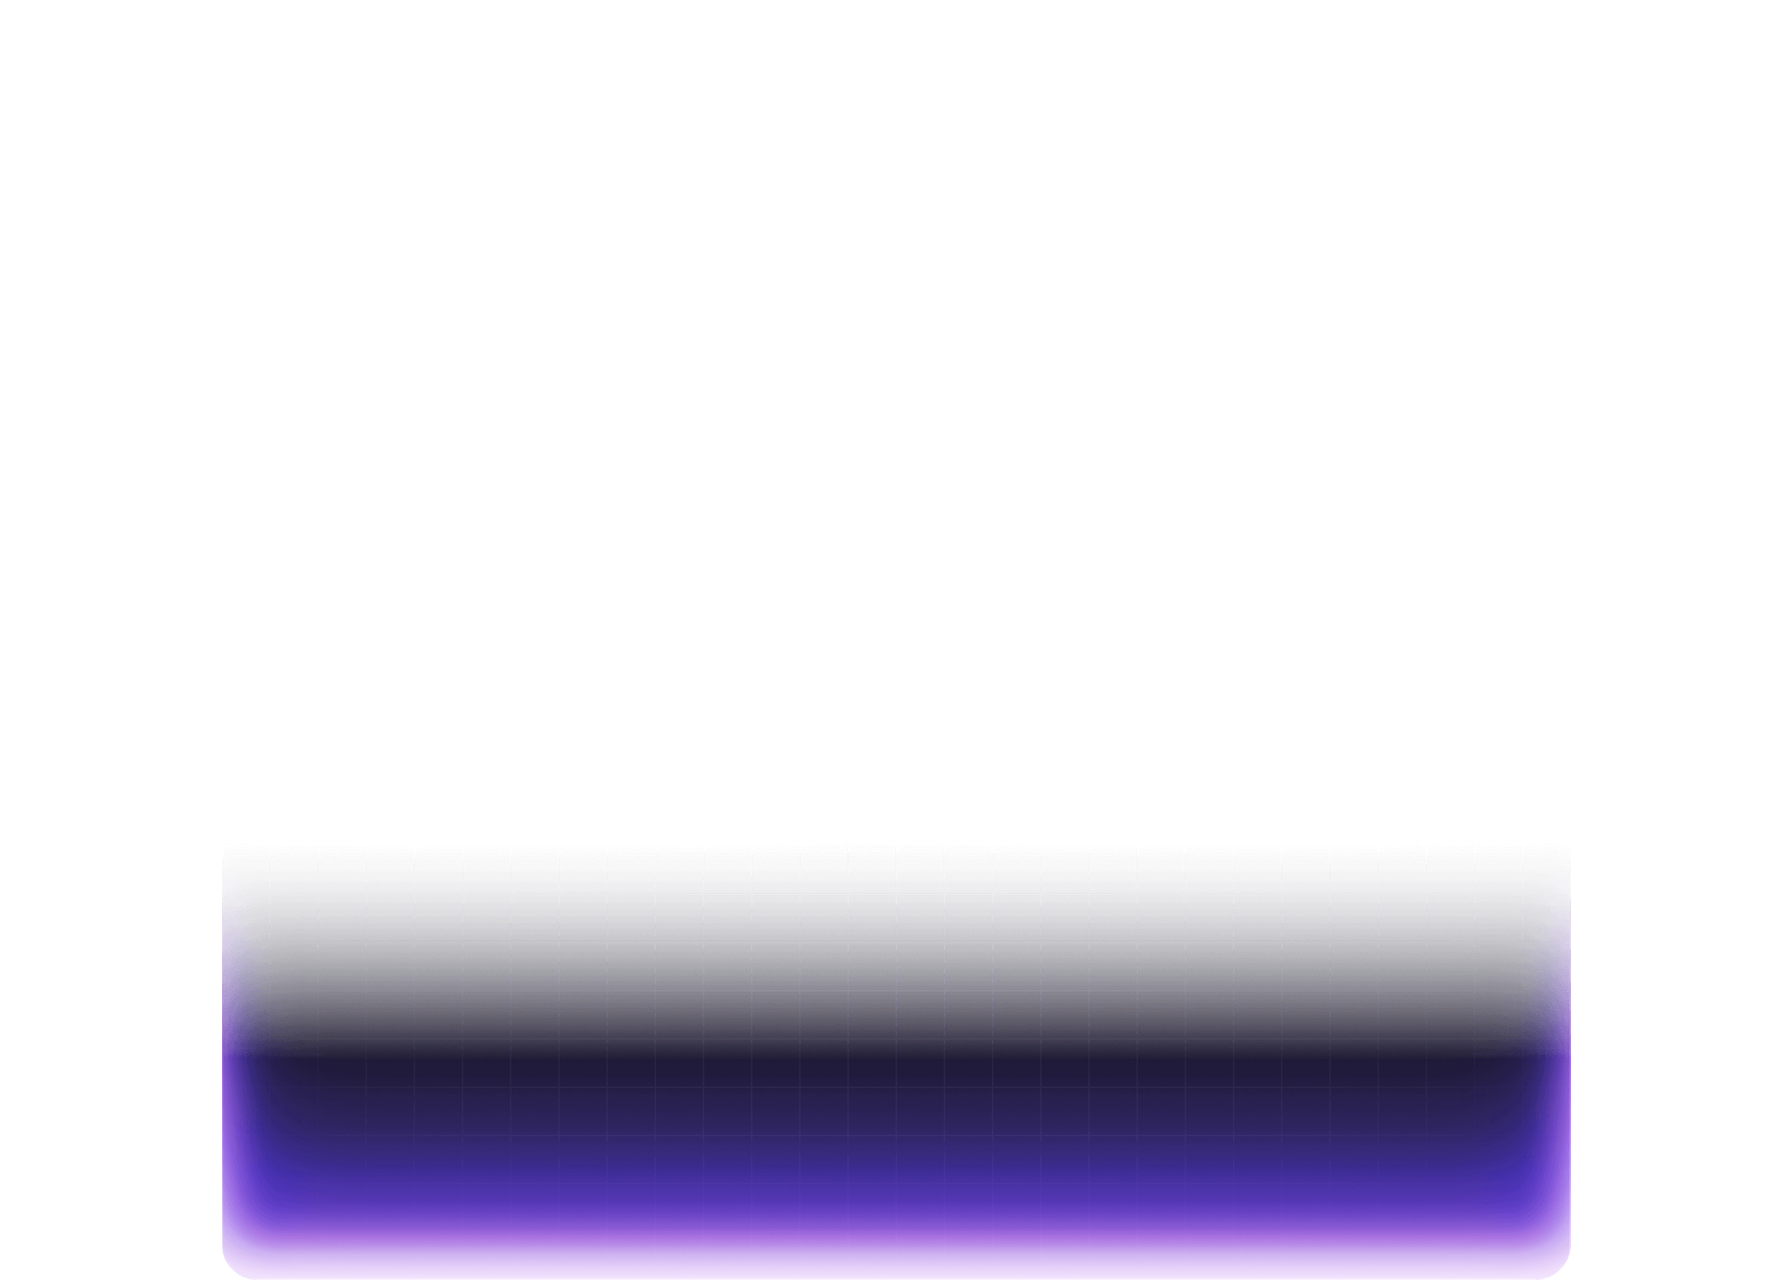
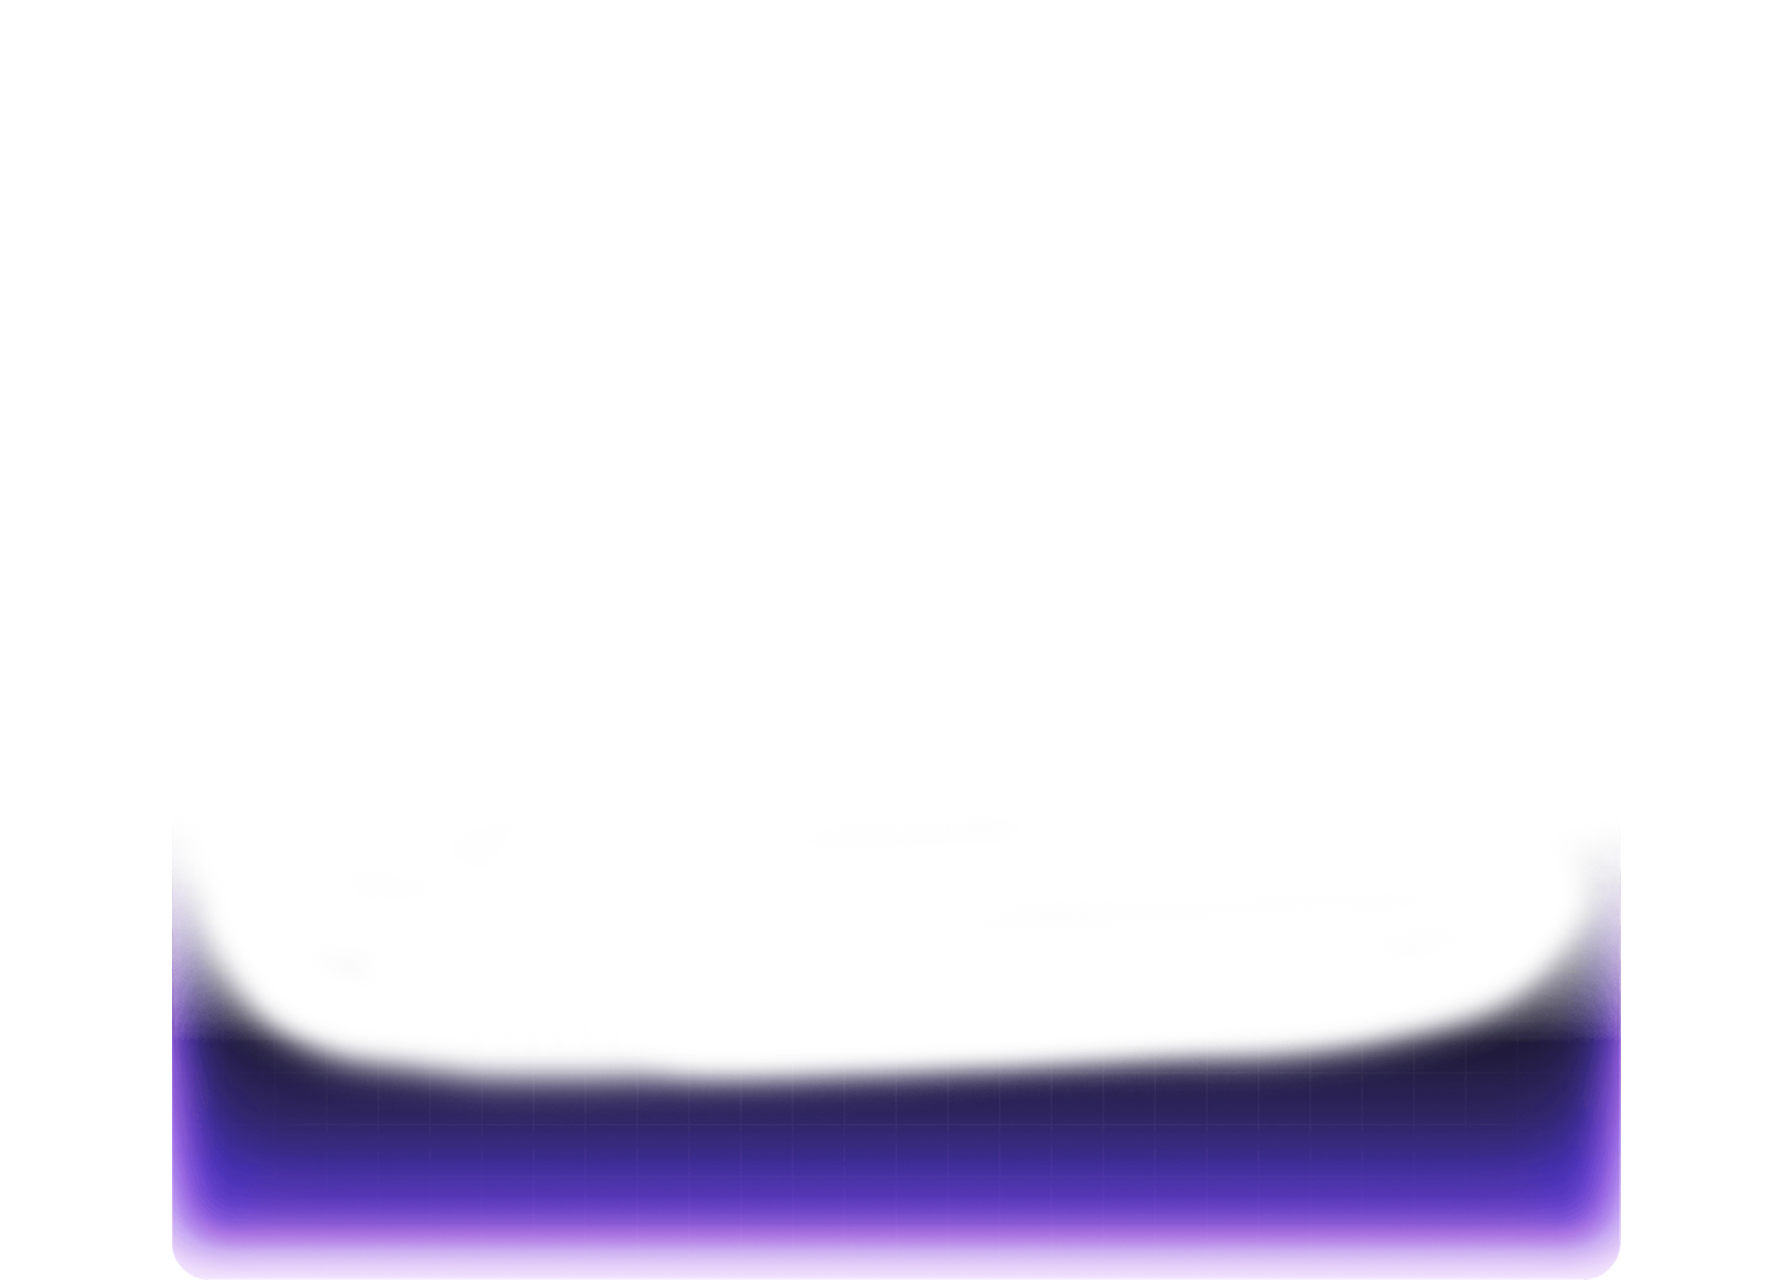
style: menambahkan bg baru

Changed region(s): [[0.0938, 0.6875, 0.9062, 1.0]]

diff --git a/tailwind.config.js b/tailwind.config.js
@@ -30,6 +30,7 @@ export default {
                 squaredBg: "url('/public/images/squared-bg-element-3.png')",
                 glowCenter: "url('/public/images/glowCenter.png')",
                 glowRect: "url('/public/images/glowRect3.png')",
+                glowRectBig: "url('/public/images/glowRect2.png')",
                 balls: "url('/public/images/balls-2.png')",
                 rect: "url('/public/images/rect.png')",
             },

diff --git a/resources/views/index.blade.php b/resources/views/index.blade.php
@@ -31,7 +31,7 @@
     <!-- ========== END HERO ========== -->
     
     <!-- ========== PARTNERS ========== -->
-    <div class="relative overflow-hidden  lg:py-6 bg-oldNavy ">
+<div class="relative overflow-hidden  lg:py-6 bg-oldNavy ">
   <div class="relative z-10 ">
     <div class="max-w-5xl px-4 xl:px-0 mx-auto">
 
@@ -232,6 +232,7 @@
     <!-- ========== END JURUSAN ========== -->
 
     <!-- ========== WHY US ========== -->
+  <div class="relative overflow-hidden before:absolute before:-top-5 lg:before:top-0 before:start-1/2 before:bg-glowRectBig before:bg-no-repeat before:bg-bottom before:size-full before:-z-[1] before:transform before:-translate-x-1/2 px-10" id="jurusan">
     <div class="mx-auto max-w-7xl py-24 px-4 sm:px-6 lg:px-8" id="whyus">
         <div class="mb-10 lg:mb-16 flex justify-center items-center flex-col gap-x-0 gap-y-6 lg:flex-col lg:gap-y-6 max-md:max-w-lg max-md:mx-auto">
             <div class="relative w-full text-center lg:text-left lg:w-full">
@@ -243,8 +244,8 @@
         </div>
         <div class="flex justify-center items-center gap-x-5 gap-y-8 lg:gap-y-0 flex-wrap md:flex-wrap lg:flex-nowrap lg:flex-row lg:justify-between lg:gap-x-8">
             <!-- Kurikulum Up-To-Date -->
-            <div class="group relative w-full border border-purple-600 rounded-2xl p-4 transition-all duration-500 max-md:max-w-md max-md:mx-auto md:w-2/5 md:h-64 xl:p-7 xl:w-1/4 hover:bg-purple-600">
-                <div class="border border-purple-600 rounded-full flex justify-center items-center mb-5 w-14 h-14 group-hover:bg-white">
+            <div class="group relative w-full rounded-2xl p-4 transition-all duration-500 max-md:max-w-md max-md:mx-auto md:w-2/5 md:h-64 xl:p-7 xl:w-1/4 hover:bg-purple-600">
+                <div class="rounded-full flex justify-center items-center mb-5 w-14 h-14 group-hover:bg-white">
                     <svg class="flex-shrink-0 size-6 text-purple-600" xmlns="http://www.w3.org/2000/svg" viewBox="0 0 24 24" width="48" height="48" fill="currentColor">
                         <path d="M12 4C14.7486 4 17.1749 5.38626 18.6156 7.5H16V9.5H22V3.5H20V5.99936C18.1762 3.57166 15.2724 2 12 2C6.47715 2 2 6.47715 2 12H4C4 7.58172 7.58172 4 12 4ZM20 12C20 16.4183 16.4183 20 12 20C9.25144 20 6.82508 18.6137 5.38443 16.5H8V14.5H2V20.5H4V18.0006C5.82381 20.4283 8.72764 22 12 22C17.5228 22 22 17.5228 22 12H20Z"></path>
                     </svg>
@@ -253,8 +254,8 @@
                 <p class="text-sm font-normal text-gray-500 transition-all duration-500 leading-5 group-hover:text-white">Mata kuliah kami selalu mengikuti perkembangan industri, memastikan keterampilan lulusan tetap relevan.</p>
             </div>
             <!-- Dosen Berpengalaman -->
-            <div class="group relative w-full border border-purple-600 rounded-2xl p-4 transition-all duration-500 max-md:max-w-md max-md:mx-auto md:w-2/5 md:h-64 xl:p-7 xl:w-1/4 hover:bg-purple-600">
-                <div class="border border-purple-600 rounded-full flex justify-center items-center mb-5 w-14 h-14 group-hover:bg-white">
+            <div class="group relative w-full rounded-2xl p-4 transition-all duration-500 max-md:max-w-md max-md:mx-auto md:w-2/5 md:h-64 xl:p-7 xl:w-1/4 hover:bg-purple-600">
+                <div class="rounded-full flex justify-center items-center mb-5 w-14 h-14 group-hover:bg-white">
                     <svg class="flex-shrink-0 size-6 text-purple-600" xmlns="http://www.w3.org/2000/svg" viewBox="0 0 24 24" width="48" height="48" fill="currentColor">
                         <path d="M17 13C19.2091 13 21 14.7909 21 17C21 19.2091 19.2091 21 17 21C14.7909 21 13 19.2091 13 17H11C11 19.2091 9.20914 21 7 21C4.79086 21 3 19.2091 3 17C3 14.7909 4.79086 13 7 13C8.48052 13 9.77317 13.8043 10.4648 14.9999H13.5352C14.2268 13.8043 15.5195 13 17 13ZM7 15C5.89543 15 5 15.8954 5 17C5 18.1046 5.89543 19 7 19C8.10457 19 9 18.1046 9 17C9 15.8954 8.10457 15 7 15ZM17 15C15.8954 15 15 15.8954 15 17C15 18.1046 15.8954 19 17 19C18.1046 19 19 18.1046 19 17C19 15.8954 18.1046 15 17 15ZM16 3C18.2091 3 20 4.79086 20 7V10H22V12H2V10H4V7C4 4.79086 5.79086 3 8 3H16ZM16 5H8C6.94564 5 6 5.95 6 7V10H18V7C18 5.94564 17.05 5 16 5Z"></path>
                     </svg>
@@ -263,8 +264,8 @@
                 <p class="text-sm font-normal text-gray-500 transition-all duration-500 leading-5 group-hover:text-white">Pengajaran oleh dosen ahli berpengalaman, memberikan bimbingan berkualitas tinggi dan wawasan praktis.</p>
             </div>
                 <!-- Fasilitas Canggih -->
-                <div class="group relative w-full border border-purple-600 rounded-2xl p-4 transition-all duration-500 max-md:max-w-md max-md:mx-auto md:w-2/5 md:h-64 xl:p-7 xl:w-1/4 hover:bg-purple-600">
-                <div class="border border-purple-600 rounded-full flex justify-center items-center mb-5 w-14 h-14 group-hover:bg-white">
+                <div class="group relative w-full rounded-2xl p-4 transition-all duration-500 max-md:max-w-md max-md:mx-auto md:w-2/5 md:h-64 xl:p-7 xl:w-1/4 hover:bg-purple-600">
+                <div class="rounded-full flex justify-center items-center mb-5 w-14 h-14 group-hover:bg-white">
                     <svg class="flex-shrink-0 size-6 text-purple-600" xmlns="http://www.w3.org/2000/svg" viewBox="0 0 24 24" width="48" height="48" fill="currentColor">
                         <path d="M13.5 2C13.5 2.44425 13.3069 2.84339 13 3.11805V5H18C19.6569 5 21 6.34315 21 8V18C21 19.6569 19.6569 21 18 21H6C4.34315 21 3 19.6569 3 18V8C3 6.34315 4.34315 5 6 5H11V3.11805C10.6931 2.84339 10.5 2.44425 10.5 2C10.5 1.17157 11.1716 0.5 12 0.5C12.8284 0.5 13.5 1.17157 13.5 2ZM6 7C5.44772 7 5 7.44772 5 8V18C5 18.5523 5.44772 19 6 19H18C18.5523 19 19 18.5523 19 18V8C19 7.44772 18.5523 7 18 7H13H11H6ZM2 10H0V16H2V10ZM22 10H24V16H22V10ZM9 14.5C9.82843 14.5 10.5 13.8284 10.5 13C10.5 12.1716 9.82843 11.5 9 11.5C8.17157 11.5 7.5 12.1716 7.5 13C7.5 13.8284 8.17157 14.5 9 14.5ZM15 14.5C15.8284 14.5 16.5 13.8284 16.5 13C16.5 12.1716 15.8284 11.5 15 11.5C14.1716 11.5 13.5 12.1716 13.5 13C13.5 13.8284 14.1716 14.5 15 14.5Z"></path>
                     </svg>
@@ -273,8 +274,8 @@
                 <p class="text-sm font-normal text-gray-500 transition-all duration-500 leading-5 group-hover:text-white">Laboratorium riset modern dan teknologi canggih kami mendukung inovasi dan penelitian mutakhir mahasiswa.</p>
             </div>
             <!-- Koneksi Industri Kuat -->
-            <div class="group relative w-full border border-purple-600 rounded-2xl p-4 transition-all duration-500 max-md:max-w-md max-md:mx-auto md:w-2/5 md:h-64 xl:p-7 xl:w-1/4 hover:bg-purple-600">
-                <div class="border border-purple-600 rounded-full flex justify-center items-center mb-5 w-14 h-14 group-hover:bg-white">
+            <div class="group relative w-full rounded-2xl p-4 transition-all duration-500 max-md:max-w-md max-md:mx-auto md:w-2/5 md:h-64 xl:p-7 xl:w-1/4 hover:bg-purple-600">
+                <div class="rounded-full flex justify-center items-center mb-5 w-14 h-14 group-hover:bg-white">
                     <svg class="flex-shrink-0 size-6 text-purple-600" xmlns="http://www.w3.org/2000/svg" viewBox="0 0 24 24" width="48" height="48" fill="currentColor">
                         <path d="M19 2H9c-1.103 0-2 .897-2 2v6H5c-1.103 0-2 .897-2 2v9a1 1 0 0 0 1 1h16a1 1 0 0 0 1-1V4c0-1.103-.897-2-2-2zM5 12h6v8H5v-8zm14 8h-6v-8c0-1.103-.897-2-2-2H9V4h10v16z"></path>
                         <path d="M11 6h2v2h-2zm4 0h2v2h-2zm0 4.031h2V12h-2zM15 14h2v2h-2zm-8 .001h2v2H7z"></path>
@@ -286,8 +287,8 @@
         </div>
         <div class="mt-11 flex justify-center items-center gap-x-5 gap-y-8 lg:gap-y-0 flex-wrap md:flex-wrap lg:flex-nowrap lg:flex-row lg:justify-between lg:gap-x-8">
             <!-- Organisasi Beragam -->
-            <div class="group relative w-full border border-purple-600 rounded-2xl p-4 transition-all duration-500 max-md:max-w-md max-md:mx-auto md:w-2/5 md:h-64 xl:p-7 xl:w-1/4 hover:bg-purple-600">
-                <div class="border border-purple-600 rounded-full flex justify-center items-center mb-5 w-14 h-14 group-hover:bg-white">
+            <div class="group relative w-full rounded-2xl p-4 transition-all duration-500 max-md:max-w-md max-md:mx-auto md:w-2/5 md:h-64 xl:p-7 xl:w-1/4 hover:bg-purple-600">
+                <div class="rounded-full flex justify-center items-center mb-5 w-14 h-14 group-hover:bg-white">
                     <svg class="flex-shrink-0 size-6 text-purple-600" xmlns="http://www.w3.org/2000/svg" viewBox="0 0 24 24" width="48" height="48" fill="currentColor">
                         <path d="M8.5 7C8.5 8.10457 7.60457 9 6.5 9C5.39543 9 4.5 8.10457 4.5 7C4.5 5.89543 5.39543 5 6.5 5C7.60457 5 8.5 5.89543 8.5 7ZM2.5 7C2.5 9.20914 4.29086 11 6.5 11C8.70914 11 10.5 9.20914 10.5 7C10.5 4.79086 8.70914 3 6.5 3C4.29086 3 2.5 4.79086 2.5 7ZM9 16.5C9 15.1193 7.88071 14 6.5 14C5.11929 14 4 15.1193 4 16.5V19H9V16.5ZM11 21H2V16.5C2 14.0147 4.01472 12 6.5 12C8.98528 12 11 14.0147 11 16.5V21ZM19.5 7C19.5 8.10457 18.6046 9 17.5 9C16.3954 9 15.5 8.10457 15.5 7C15.5 5.89543 16.3954 5 17.5 5C18.6046 5 19.5 5.89543 19.5 7ZM13.5 7C13.5 9.20914 15.2909 11 17.5 11C19.7091 11 21.5 9.20914 21.5 7C21.5 4.79086 19.7091 3 17.5 3C15.2909 3 13.5 4.79086 13.5 7ZM20 16.5C20 15.1193 18.8807 14 17.5 14C16.1193 14 15 15.1193 15 16.5V19H20V16.5ZM13 19V16.5C13 14.0147 15.0147 12 17.5 12C19.9853 12 22 14.0147 22 16.5V21H13V19Z"></path>
                     </svg>
@@ -296,16 +297,16 @@
                 <p class="text-sm font-normal text-gray-500 transition-all duration-500 leading-5 group-hover:text-white">Tersedia berbagai organisasi dan klub mahasiswa untuk mengembangkan minat dan bakat di luar akademik.</p>
             </div>
             <!-- Jaringan Alumni -->
-            <div class="group relative w-full border border-purple-600 rounded-2xl p-4 transition-all duration-500 max-md:max-w-md max-md:mx-auto md:w-2/5 md:h-64 xl:p-7 xl:w-1/4 hover:bg-purple-600">
-                <div class="border border-purple-600 rounded-full flex justify-center items-center mb-5 w-14 h-14 group-hover:bg-white">
+            <div class="group relative w-full rounded-2xl p-4 transition-all duration-500 max-md:max-w-md max-md:mx-auto md:w-2/5 md:h-64 xl:p-7 xl:w-1/4 hover:bg-purple-600">
+                <div class="rounded-full flex justify-center items-center mb-5 w-14 h-14 group-hover:bg-white">
                 <svg class="flex-shrink-0 size-6 text-purple-600" xmlns="http://www.w3.org/2000/svg" viewBox="0 0 24 24" width="48" height="48" fill="currentColor"><path d="M11.8611 2.39057C12.8495 1.73163 14.1336 1.71797 15.1358 2.35573L19.291 4.99994H20.9998C21.5521 4.99994 21.9998 5.44766 21.9998 5.99994V14.9999C21.9998 15.5522 21.5521 15.9999 20.9998 15.9999H19.4801C19.5396 16.9472 19.0933 17.9102 18.1955 18.4489L13.1021 21.505C12.4591 21.8907 11.6609 21.8817 11.0314 21.4974C10.3311 22.1167 9.2531 22.1849 8.47104 21.5704L3.33028 17.5312C2.56387 16.9291 2.37006 15.9003 2.76579 15.0847C2.28248 14.7057 2 14.1254 2 13.5109V6C2 5.44772 2.44772 5 3 5H7.94693L11.8611 2.39057ZM4.17264 13.6452L4.86467 13.0397C6.09488 11.9632 7.96042 12.0698 9.06001 13.2794L11.7622 16.2518C12.6317 17.2083 12.7903 18.6135 12.1579 19.739L17.1665 16.7339C17.4479 16.5651 17.5497 16.2276 17.4448 15.9433L13.0177 9.74551C12.769 9.39736 12.3264 9.24598 11.9166 9.36892L9.43135 10.1145C8.37425 10.4316 7.22838 10.1427 6.44799 9.36235L6.15522 9.06958C5.58721 8.50157 5.44032 7.69318 5.67935 7H4V13.5109L4.17264 13.6452ZM14.0621 4.04306C13.728 3.83047 13.3 3.83502 12.9705 4.05467L7.56943 7.65537L7.8622 7.94814C8.12233 8.20827 8.50429 8.30456 8.85666 8.19885L11.3419 7.45327C12.5713 7.08445 13.8992 7.53859 14.6452 8.58303L18.5144 13.9999H19.9998V6.99994H19.291C18.9106 6.99994 18.5381 6.89148 18.2172 6.68727L14.0621 4.04306ZM6.18168 14.5448L4.56593 15.9586L9.70669 19.9978L10.4106 18.7659C10.6256 18.3897 10.5738 17.9178 10.2823 17.5971L7.58013 14.6247C7.2136 14.2215 6.59175 14.186 6.18168 14.5448Z"></path></svg>
                 </div>
                 <h4 class="text-lg font-semibold text-purple-600 mb-3 capitalize transition-all duration-500 group-hover:text-white">Jaringan Alumni</h4>
                 <p class="text-sm font-normal text-gray-500 transition-all duration-500 leading-5 group-hover:text-white">Jaringan alumni yang luas membantu memperluas peluang karir dan koneksi profesional.</p>
             </div>
                 <!-- Kampus Nyaman -->
-                <div class="group relative w-full border border-purple-600 rounded-2xl p-4 transition-all duration-500 max-md:max-w-md max-md:mx-auto md:w-2/5 md:h-64 xl:p-7 xl:w-1/4 hover:bg-purple-600">
-                <div class="border border-purple-600 rounded-full flex justify-center items-center mb-5 w-14 h-14 group-hover:bg-white">
+                <div class="group relative w-full rounded-2xl p-4 transition-all duration-500 max-md:max-w-md max-md:mx-auto md:w-2/5 md:h-64 xl:p-7 xl:w-1/4 hover:bg-purple-600">
+                <div class="rounded-full flex justify-center items-center mb-5 w-14 h-14 group-hover:bg-white">
                     <svg class="flex-shrink-0 size-6 text-purple-600" xmlns="http://www.w3.org/2000/svg" viewBox="0 0 24 24" width="48" height="48" fill="currentColor">
                     <path d="M12 2C6.486 2 2 6.486 2 12s4.486 10 10 10 10-4.486 10-10S17.514 2 12 2zm0 18c-4.411 0-8-3.589-8-8s3.589-8 8-8 8 3.589 8 8-3.589 8-8 8z"></path><circle cx="8.5" cy="9.5" r="1.5"></circle><circle cx="15.493" cy="9.493" r="1.493"></circle><path d="M12 18c5 0 6-5 6-5H6s1 5 6 5z"></path>
                     </svg>
@@ -314,8 +315,8 @@
                 <p class="text-sm font-normal text-gray-500 transition-all duration-500 leading-5 group-hover:text-white">Lingkungan kampus yang modern dan nyaman mendukung kegiatan akademik dan sosial, ciptakan suasana belajar kondusif.</p>
             </div>
             <!-- Program Internasional -->
-            <div class="group relative w-full border border-purple-600 rounded-2xl p-4 transition-all duration-500 max-md:max-w-md max-md:mx-auto md:w-2/5 md:h-64 xl:p-7 xl:w-1/4 hover:bg-purple-600">
-                <div class="border border-purple-600 rounded-full flex justify-center items-center mb-5 w-14 h-14 group-hover:bg-white">
+            <div class="group relative w-full rounded-2xl p-4 transition-all duration-500 max-md:max-w-md max-md:mx-auto md:w-2/5 md:h-64 xl:p-7 xl:w-1/4 hover:bg-purple-600">
+                <div class="rounded-full flex justify-center items-center mb-5 w-14 h-14 group-hover:bg-white">
                     <svg class="flex-shrink-0 size-6 text-purple-600" xmlns="http://www.w3.org/2000/svg" viewBox="0 0 24 24" width="48" height="48" fill="currentColor">
                        <path d="M12 22C6.47715 22 2 17.5228 2 12C2 6.47715 6.47715 2 12 2C17.5228 2 22 6.47715 22 12C22 17.5228 17.5228 22 12 22ZM9.71002 19.6674C8.74743 17.6259 8.15732 15.3742 8.02731 13H4.06189C4.458 16.1765 6.71639 18.7747 9.71002 19.6674ZM10.0307 13C10.1811 15.4388 10.8778 17.7297 12 19.752C13.1222 17.7297 13.8189 15.4388 13.9693 13H10.0307ZM19.9381 13H15.9727C15.8427 15.3742 15.2526 17.6259 14.29 19.6674C17.2836 18.7747 19.542 16.1765 19.9381 13ZM4.06189 11H8.02731C8.15732 8.62577 8.74743 6.37407 9.71002 4.33256C6.71639 5.22533 4.458 7.8235 4.06189 11ZM10.0307 11H13.9693C13.8189 8.56122 13.1222 6.27025 12 4.24799C10.8778 6.27025 10.1811 8.56122 10.0307 11ZM14.29 4.33256C15.2526 6.37407 15.8427 8.62577 15.9727 11H19.9381C19.542 7.8235 17.2836 5.22533 14.29 4.33256Z"></path>
                     </svg>
@@ -324,7 +325,8 @@
                 <p class="text-sm font-normal text-gray-500 transition-all duration-500 leading-5 group-hover:text-white">Kesempatan untuk belajar di luar negeri dan program pertukaran pelajar, memberikan pengalaman global yang berharga.</p>
             </div>
         </div>
-    </div>                                    
+    </div>     
+  </div>                               
     <!-- ========== END WHY US ========== -->
 
     <!-- ========== ALUR PENDAFTARAN ========== -->
